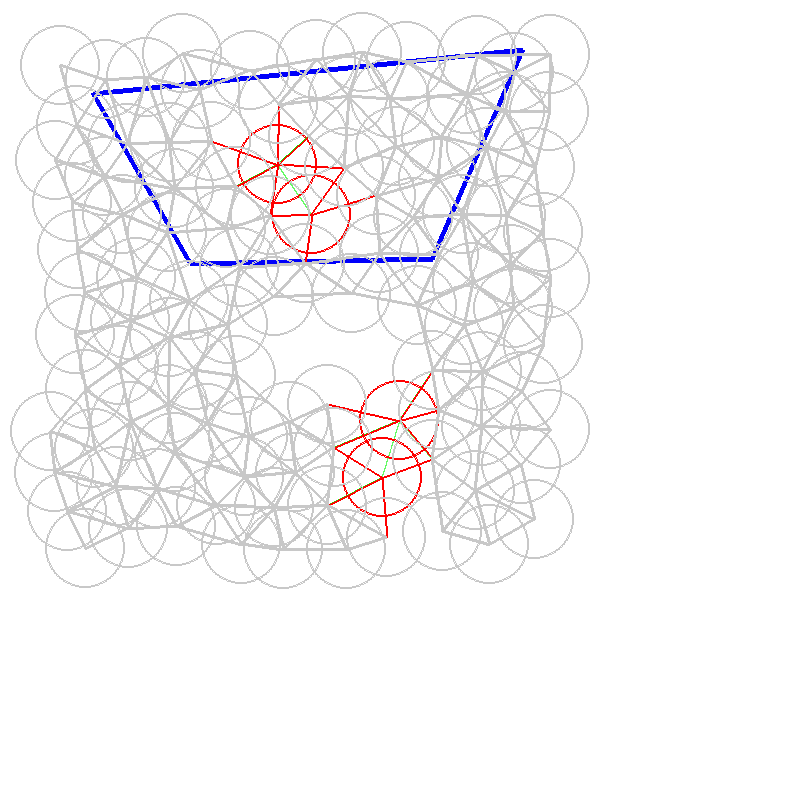
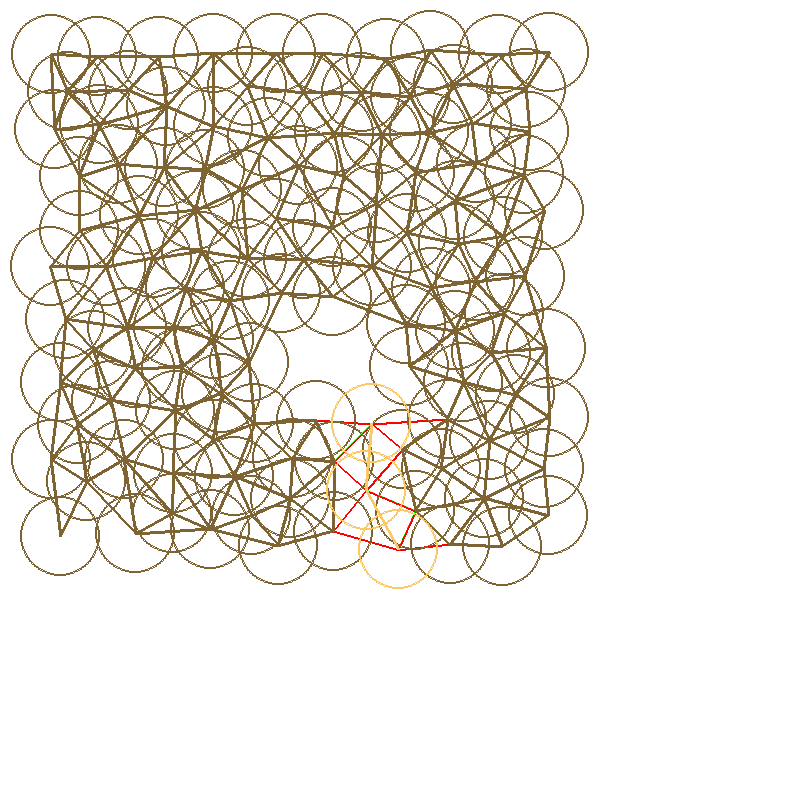
Find a bug on contraction!!!!!

Changed region(s): [[0.0, 0.0, 0.75, 0.75], [0.7188, 0.4062, 0.75, 0.4688], [0.0, 0.0625, 0.0312, 0.0938]]

diff --git a/topology/Contraction_test.py b/topology/Contraction_test.py
@@ -95,22 +95,23 @@ def main():
 	##################################################
 	######        Contruct components
 	contractor = Contraction(sphere_list, DISPLAYSURF);
-	'''
+	
 	components = contractor.contract(triangle_set, edge_tri_dict, sphere_tri_dict);
 
 	print "Got {0} component(s)".format(len(components))
 	
 	i = 1;
 	for comp in components:
-		color = (160/len(components) * i, 200/len(components) * i, 100/len(components) * i );
+		color = (250/len(components) * i, 200/len(components) * i, 100/len(components) * i );
 		comp.render(DISPLAYSURF, color);
 		#print comp.get_spheres();
 		i+=1
 
 	pygame.display.update();
-	#time.sleep(5);
-	#return;
-	'''
+	pygame.image.save(DISPLAYSURF, "homotopy.PNG")
+	time.sleep(5);
+	return;
+	
 	##################################################
 	######        Contruct Path
 	path1 = [ (93, 93), (522, 50) ]

diff --git a/alphashape/Homotopy.py b/alphashape/Homotopy.py
@@ -78,7 +78,7 @@ class HomotopyCSP:
 
 		pdb.set_trace();
 
-		#union_center = center(union1, union2);
+		union_center = center(union1, union2);
 		union1.render( surface, (200,200,00) );	
 		pygame.display.update();
 		union2.render( surface, (200,000,200) );
